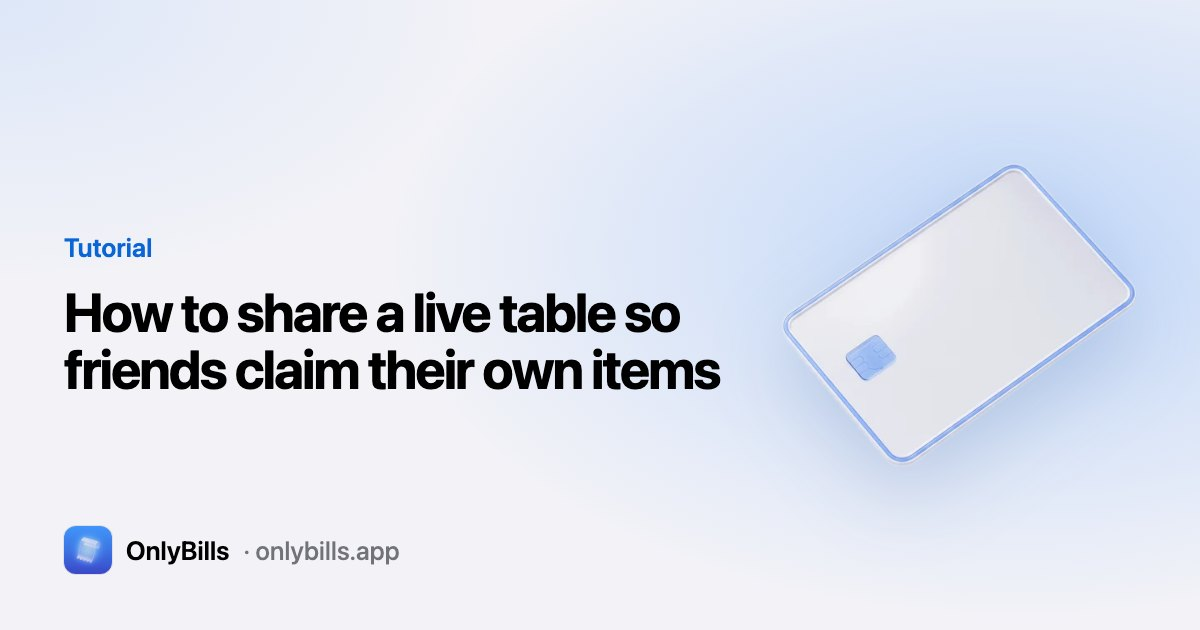
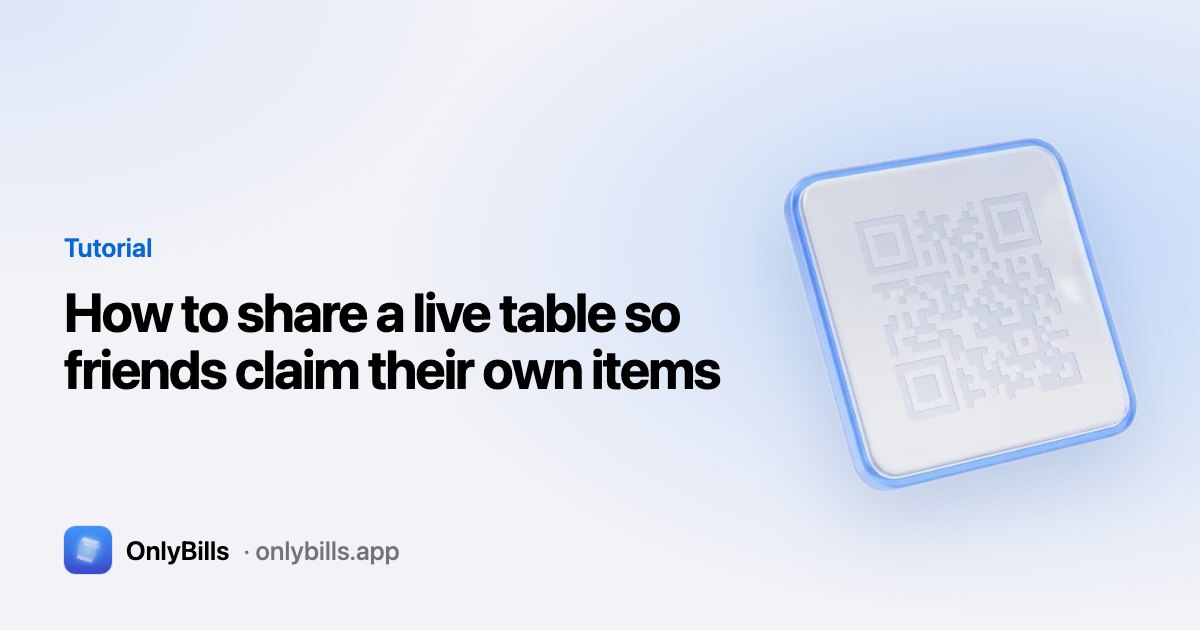
Home: bring back the Fair to the penny card, fix stray closing tags; QR art for live table tutorial
Build now fails if a page's <div> tags don't balance.

Changed region(s): [[0.6475, 0.2111, 0.9558, 0.7841]]

diff --git a/index.html b/index.html
@@ -176,8 +176,18 @@
         </ul>
         <a class="text-link" href="/tools/split-bill-calculator/">Try the free calculator</a>
       </div>
-      <div class="feature-visual"><div class="phone" style="--w:290px"><picture><source srcset="/assets/shots/host-06-summary-dark.webp" media="(prefers-color-scheme: dark)"><img src="/assets/shots/host-06-summary-light.webp" width="640" height="1391" alt="Who owes what: each person’s exact share of the bill, with their percentage" loading="lazy" decoding="async"></picture></div></div>
-      </div>
+      <div class="feature-visual"><div class="demo" aria-label="Example: Alex's share of a bill at Saffron House is £22.22">
+          <div class="card share-card">
+            <div class="share-head"><img class="face" style="--size:48px" src="/assets/faces/orange-1.webp" width="48" height="48" alt="" loading="lazy" decoding="async"><span><small>Your share</small><b>Alex</b></span></div>
+            <div class="hero-money">£22.22</div>
+            <div class="share-meta">3 items · 1 shared · incl. £2.47 extras</div>
+          </div>
+          <div class="group">
+            <div class="row"><span class="tick"></span><span class="row-body"><span class="row-title">Chicken Ruby</span><span class="row-sub"><img class="face" style="--size:20px" src="/assets/faces/green-2.webp" width="20" height="20" alt="" loading="lazy" decoding="async">Sam</span></span><span class="row-end"><span class="money">£14.50</span></span></div>
+            <div class="row"><span class="tick on"></span><span class="row-body"><span class="row-title">Lamb Raan Bun</span><span class="row-sub"><img class="face" style="--size:20px" src="/assets/faces/orange-1.webp" width="20" height="20" alt="" loading="lazy" decoding="async">You</span></span><span class="row-end"><span class="money">£13.20</span></span></div>
+            <div class="row"><span class="tick on"></span><span class="row-body"><span class="row-title">Garlic Naan <span class="qty">×2</span></span><span class="row-sub"><span class="faces" style="--size:20px"><img class="face" style="--size:20px" src="/assets/faces/teal-3.webp" width="20" height="20" alt="" loading="lazy" decoding="async"><img class="face" style="--size:20px" src="/assets/faces/green-2.webp" width="20" height="20" alt="" loading="lazy" decoding="async"><img class="face" style="--size:20px" src="/assets/faces/orange-1.webp" width="20" height="20" alt="" loading="lazy" decoding="async"></span>Split 3 ways</span></span><span class="row-end"><span class="money">£4.80</span><span class="you">You £1.60</span></span></div>
+          </div>
+        </div></div>
     </div>
 
     <div class="feature reveal">
@@ -199,7 +209,6 @@
         <a class="text-link" href="/how-to/track-who-owes-you/">How Owed works</a>
       </div>
       <div class="feature-visual"><div class="phone vid" style="--w:290px"><video muted playsinline preload="none" poster="/assets/video/owed-light-poster.jpg" data-video="owed" aria-label="The Owed page: friends’ faces float around what you’re owed, £68.13 across 4 friends" ></video><button class="vid-replay" type="button" hidden aria-label="Play again"><svg viewBox="0 0 24 24" width="18" height="18" fill="none" stroke="currentColor" stroke-width="2.2" stroke-linecap="round" stroke-linejoin="round" aria-hidden="true"><path d="M3 12a9 9 0 1 0 3-6.7L3 8"/><path d="M3 3v5h5"/></svg></button></div></div>
-      </div>
     </div>
   </div>
 </section>

diff --git a/how-to/split-a-bill-with-onlybills/index.html b/how-to/split-a-bill-with-onlybills/index.html
@@ -119,7 +119,7 @@
   <div class="thumb"><picture class="art" style="--art:120px"><source srcset="/assets/art/camera-dark.webp" media="(prefers-color-scheme: dark)"><img src="/assets/art/camera.webp" width="120" height="120" alt="" loading="lazy" decoding="async"></picture></div>
   <div class="body"><span class="meta">Tutorial</span><h3>How to scan a receipt with OnlyBills</h3><p>Get a clean scan first time: good light, a flat receipt, the whole thing in view. Then check it adds up, fix a misread line, or type the bill in by hand.</p></div>
 </a><a class="card post-card" href="/how-to/share-a-live-table/" data-cat="">
-  <div class="thumb"><picture class="art" style="--art:120px"><source srcset="/assets/art/pass-dark.webp" media="(prefers-color-scheme: dark)"><img src="/assets/art/pass.webp" width="120" height="120" alt="" loading="lazy" decoding="async"></picture></div>
+  <div class="thumb"><picture class="art" style="--art:120px"><source srcset="/assets/art/claim-dark.webp" media="(prefers-color-scheme: dark)"><img src="/assets/art/claim.webp" width="120" height="120" alt="" loading="lazy" decoding="async"></picture></div>
   <div class="body"><span class="meta">Tutorial</span><h3>How to share a live table so friends claim their own items</h3><p>Show a QR code or send a link, and friends tick what they had on their own phone. Watch the claims come in, split what's left evenly, then finish the table.</p></div>
 </a><a class="card post-card" href="/how-to/get-paid-back/" data-cat="">
   <div class="thumb"><picture class="art" style="--art:120px"><source srcset="/assets/art/payout-dark.webp" media="(prefers-color-scheme: dark)"><img src="/assets/art/payout.webp" width="120" height="120" alt="" loading="lazy" decoding="async"></picture></div>

diff --git a/how-to/scan-a-receipt/index.html b/how-to/scan-a-receipt/index.html
@@ -131,7 +131,7 @@
   <div class="thumb"><picture class="art" style="--art:120px"><source srcset="/assets/art/receipts-dark.webp" media="(prefers-color-scheme: dark)"><img src="/assets/art/receipts.webp" width="120" height="120" alt="" loading="lazy" decoding="async"></picture></div>
   <div class="body"><span class="meta">Tutorial</span><h3>How shared items, service and tips are split</h3><p>Shared dishes split between whoever shared them. Service, tips and discounts follow what each person ordered. Here's the exact maths, with a worked £ example.</p></div>
 </a><a class="card post-card" href="/how-to/share-a-live-table/" data-cat="">
-  <div class="thumb"><picture class="art" style="--art:120px"><source srcset="/assets/art/pass-dark.webp" media="(prefers-color-scheme: dark)"><img src="/assets/art/pass.webp" width="120" height="120" alt="" loading="lazy" decoding="async"></picture></div>
+  <div class="thumb"><picture class="art" style="--art:120px"><source srcset="/assets/art/claim-dark.webp" media="(prefers-color-scheme: dark)"><img src="/assets/art/claim.webp" width="120" height="120" alt="" loading="lazy" decoding="async"></picture></div>
   <div class="body"><span class="meta">Tutorial</span><h3>How to share a live table so friends claim their own items</h3><p>Show a QR code or send a link, and friends tick what they had on their own phone. Watch the claims come in, split what's left evenly, then finish the table.</p></div>
 </a></div>
   </div>

diff --git a/how-to/assign-items-yourself/index.html b/how-to/assign-items-yourself/index.html
@@ -133,7 +133,7 @@
   <div class="thumb"><picture class="art" style="--art:120px"><source srcset="/assets/art/payout-dark.webp" media="(prefers-color-scheme: dark)"><img src="/assets/art/payout.webp" width="120" height="120" alt="" loading="lazy" decoding="async"></picture></div>
   <div class="body"><span class="meta">Tutorial</span><h3>How to get paid back with OnlyBills</h3><p>Add your Monzo, Starling, Revolut or PayPal link or bank details once. Then friends pay their exact share from a link, and you tick them off as the money lands.</p></div>
 </a><a class="card post-card" href="/how-to/share-a-live-table/" data-cat="">
-  <div class="thumb"><picture class="art" style="--art:120px"><source srcset="/assets/art/pass-dark.webp" media="(prefers-color-scheme: dark)"><img src="/assets/art/pass.webp" width="120" height="120" alt="" loading="lazy" decoding="async"></picture></div>
+  <div class="thumb"><picture class="art" style="--art:120px"><source srcset="/assets/art/claim-dark.webp" media="(prefers-color-scheme: dark)"><img src="/assets/art/claim.webp" width="120" height="120" alt="" loading="lazy" decoding="async"></picture></div>
   <div class="body"><span class="meta">Tutorial</span><h3>How to share a live table so friends claim their own items</h3><p>Show a QR code or send a link, and friends tick what they had on their own phone. Watch the claims come in, split what's left evenly, then finish the table.</p></div>
 </a></div>
   </div>

diff --git a/how-to/share-a-live-table/index.html b/how-to/share-a-live-table/index.html
@@ -51,7 +51,7 @@
   <div class="wrap wrap-prose">
     <header class="article-head">
       <nav class="crumbs" aria-label="Breadcrumb"><a href="/">Home</a><span aria-hidden="true">›</span><a href="/how-to/">How it works</a><span aria-hidden="true">›</span><span aria-current="page">How to share a live table so friends claim their own items</span></nav>
-      <picture class="art" style="--art:140px"><source srcset="/assets/art/pass-dark.webp" media="(prefers-color-scheme: dark)"><img src="/assets/art/pass.webp" width="140" height="140" alt="" fetchpriority="high" decoding="async"></picture>
+      <picture class="art" style="--art:140px"><source srcset="/assets/art/claim-dark.webp" media="(prefers-color-scheme: dark)"><img src="/assets/art/claim.webp" width="140" height="140" alt="" fetchpriority="high" decoding="async"></picture>
       <span class="eyebrow">Tutorial</span>
       <h1 class="h1">How to share a live table so friends claim their own items</h1>
       <p class="lede">Show a QR code or send a link, and friends tick what they had on their own phone. Watch the claims come in, split what's left evenly, then finish the table.</p>

diff --git a/site/content/how-to/share-a-live-table.md b/site/content/how-to/share-a-live-table.md
@@ -5,7 +5,7 @@ description: Show a QR code or send a link, and friends tick what they had on th
 date: 2026-10-21
 order: 3
 summary: QR code, copy link, send invite, watch claims live and finish.
-art: pass
+art: claim
 related: claim-your-items-without-the-app, get-paid-back, shared-items-service-and-tips
 ---
 
